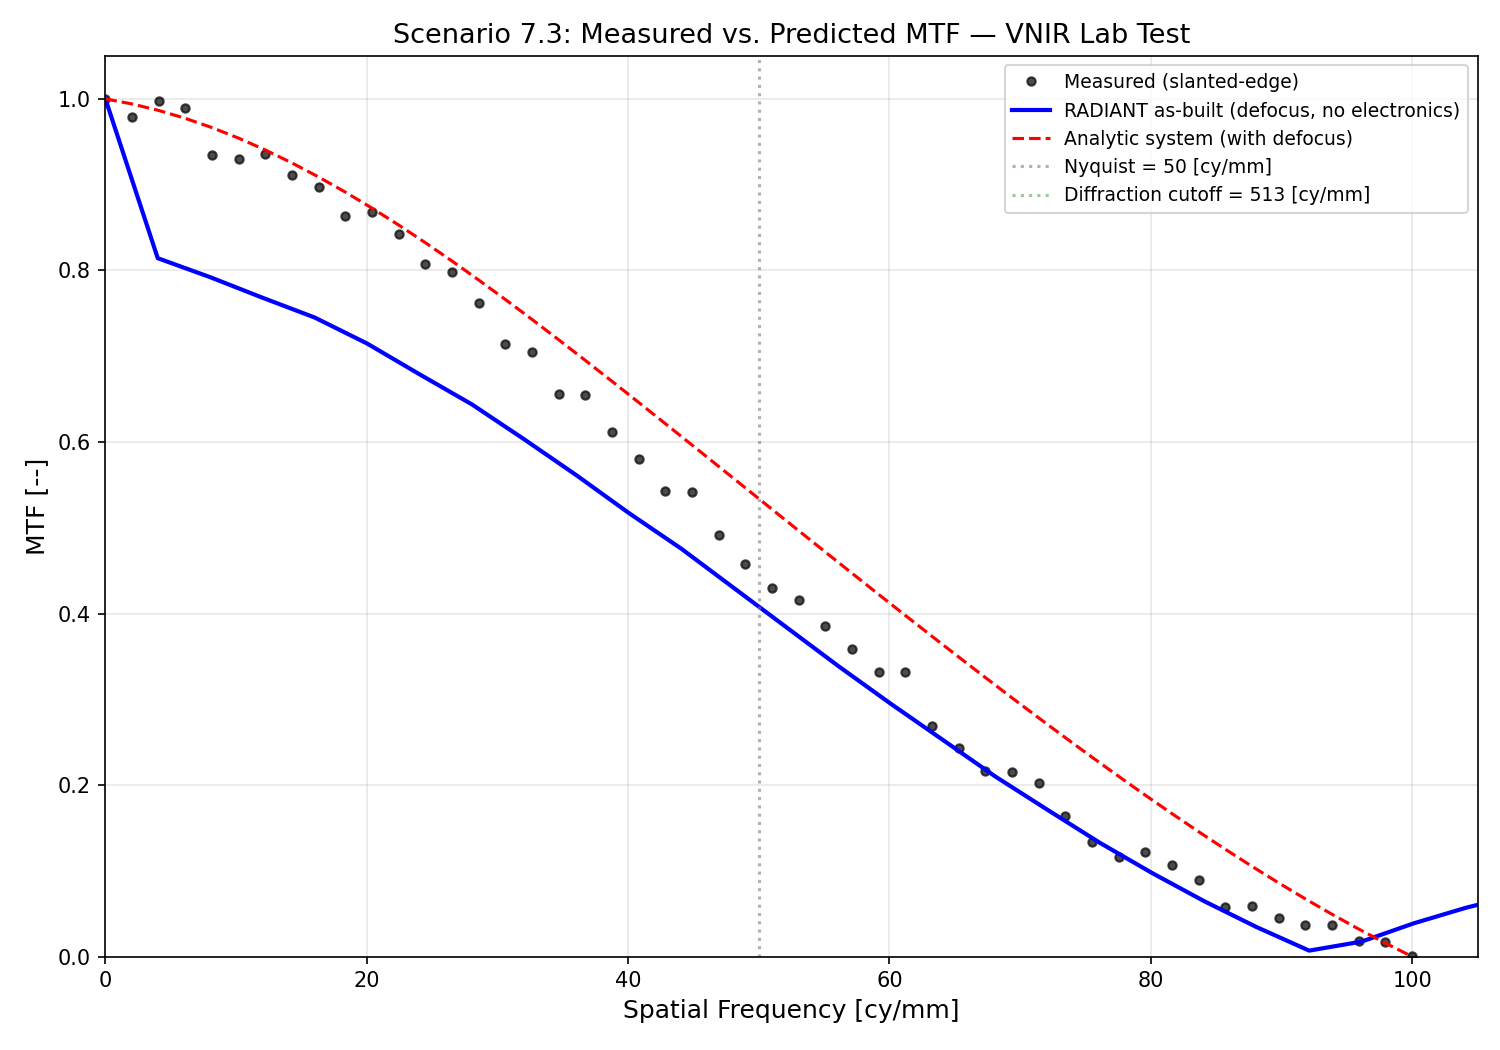
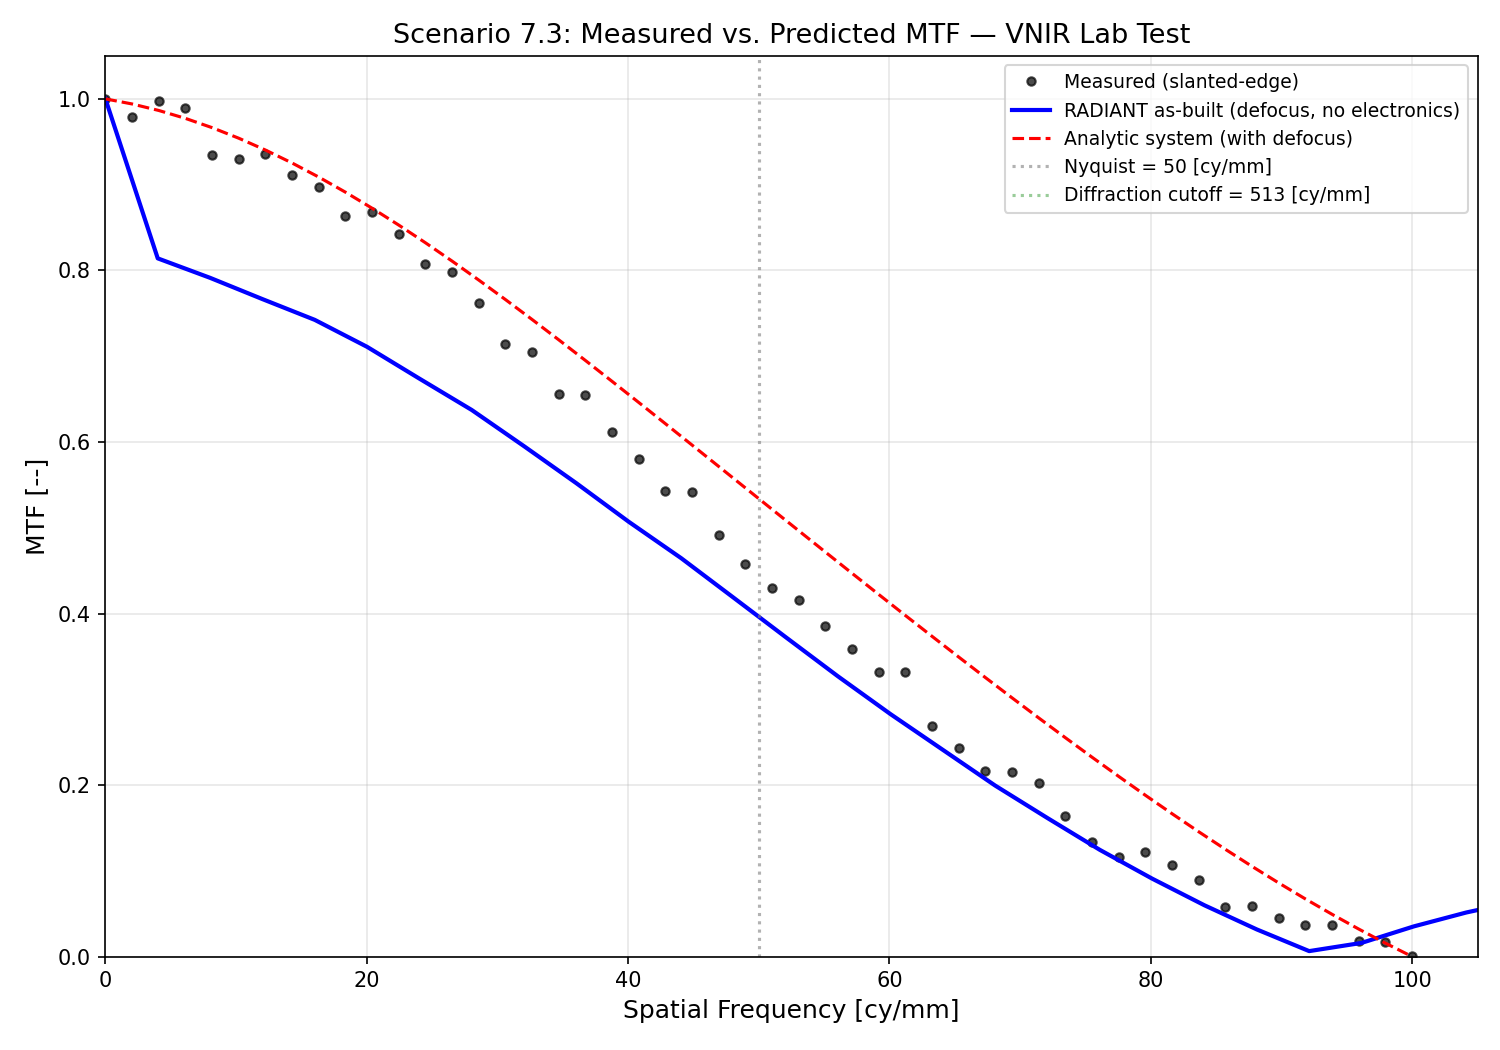
scenarios(7.3): refresh under CU-058 fix — consistency check now passes
The scenario that exposed CU-058 rerun under the fix: the every-run
dual-path failure (0.169 vs 0.05) is gone; the budget's Optics term now
carries the full pupil (0.8115 → 0.6699 at Nyquist, WFE screen restored)
and the product-path system (0.4095) agrees with the PSF path (0.3962).
Predicted MTF@Ny 0.4080 → 0.3962 (exact Z4 OTF replaces the Gaussian
kernel); residual RMS 0.088 → 0.092; explainer and defocus-sensitivity
tables re-transcribed; walkthrough/gaps narrative flipped from
caveat-CU-058 to resolved. Figures regenerated.

diff --git a/scenarios/07_karen_test_engineer/7.3_mtf_measurement_vs_prediction/scripts/run_mtf_measurement_vs_prediction.py b/scenarios/07_karen_test_engineer/7.3_mtf_measurement_vs_prediction/scripts/run_mtf_measurement_vs_prediction.py
@@ -294,17 +294,16 @@ config = {
 sensor = Sensor.from_dict(config)
 r = sensor.evaluate()
 
-# KNOWN ISSUE (CU-058): combining scalar optics.wfe_rms_waves with
-# optics.defocus_um logs a "Dual-path MTF consistency check FAILED"
-# warning (~0.17 vs 0.05) on every evaluation in this scenario. The MTF
-# product path folds defocus into the pupil as Zernike Z4 but DROPS the
-# scalar-RMS WFE screen while doing so; the PSF path keeps the screen.
-# The PSF path (metrics, mtf_x curve used below) is the more complete
-# one here. Tracked as CU-058 in docs/tracking/Cleanup_Backlog.md.
-print(f"\n  NOTE: the dual-path consistency warning above is expected in this")
-print(f"  configuration — scalar WFE + defocus triggers CU-058 (the MTF")
-print(f"  product path loses the WFE screen when defocus folds into the")
-print(f"  pupil). Curves below come from the PSF path, which keeps both.")
+# CU-058 RESOLVED: scalar WFE + defocus previously failed the dual-path
+# consistency check (~0.17 vs 0.05) on every evaluation of this scenario
+# because the product path dropped the WFE screen when folding defocus to
+# Z4 and the PSF path used a Gaussian kernel instead. Defocus now enters
+# BOTH paths as pupil Z4 alongside the preserved screen, so the check
+# passes and the two paths agree by construction (Rule 4).
+print(f"\n  NOTE: scalar WFE + defocus previously tripped the dual-path")
+print(f"  consistency check on every run (CU-058); with defocus unified as")
+print(f"  pupil Z4 on both paths the check now passes — both paths carry")
+print(f"  diffraction + WFE screen + defocus from the same complex pupil.")
 
 # Extract predicted MTF curve from RADIANT
 perf_out = r.stage_outputs.get("performance", {})
@@ -409,23 +408,22 @@ spot_radius_m = abs(defocus_m) / (4.0 * f_number)  # geometric blur radius
 sigma_defocus_script = spot_radius_m / 1.0  # original script: σ = R (was R/2 before)
 sigma_defocus_radiant = abs(defocus_m) / (4.0 * f_number * math.sqrt(3.0))  # RADIANT formula
 
-# Use RADIANT's formula (physically correct RMS) for the analytic comparison
+# Use the Gaussian RMS form for KAREN'S HAND composite. Note the model
+# difference (CU-058): RADIANT itself no longer uses a Gaussian — it folds
+# defocus into the complex pupil as Zernike Z4, entering the PSF and MTF
+# product paths through the SAME pupil (Rule 4, exact defocus OTF). The
+# Gaussian here is the standard hand approximation for the composite.
 sigma_defocus_m = sigma_defocus_radiant
 mtf_defocus = np.exp(-2.0 * math.pi**2 * sigma_defocus_m**2 * freq_eval_cy_m**2)
 
-# RADIANT now includes defocus natively via optics.defocus_um
-radiant_defocus_sigma = r.stage_outputs.get("optics", {}).get("defocus_sigma_m")
-
-print(f"\n  4. Defocus MTF (now included in RADIANT via optics.defocus_um)")
+print(f"\n  4. Defocus MTF (RADIANT: pupil Z4 via optics.defocus_um — CU-058)")
 print(f"     Defocus: {defocus_um:.1f} [µm] from best focus")
 print(f"     Geometric spot radius: {spot_radius_m * 1e6:.2f} [µm]")
-print(f"     Gaussian σ_defocus (RADIANT): {sigma_defocus_radiant * 1e6:.3f} [µm]")
-if radiant_defocus_sigma is not None:
-    print(f"     RADIANT stage σ_defocus:      {radiant_defocus_sigma * 1e6:.3f} [µm]")
-    sigma_match = abs(radiant_defocus_sigma - sigma_defocus_radiant) / sigma_defocus_radiant < 0.001
-    print(f"     σ match (analytic vs RADIANT): {'YES' if sigma_match else 'NO'} [--]")
+print(f"     Hand-composite Gaussian σ:    {sigma_defocus_radiant * 1e6:.3f} [µm]")
 print(f"     MTF_defocus at Nyquist: {np.interp(f_nyquist_cy_m, freq_eval_cy_m, mtf_defocus):.4f} [--]")
-print(f"     Formula: σ = |δ|/(4·f/#·√3), where √3 = RMS of uniform disk.")
+print(f"     Hand formula: σ = |δ|/(4·f/#·√3) (RMS of uniform disk) — an")
+print(f"     approximation; RADIANT's native defocus is Zernike Z4 in the")
+print(f"     pupil (exact OTF, identical on both spatial paths).")
 
 # Composite analytic system MTF
 mtf_analytic_system = mtf_diffraction * mtf_pixel * mtf_ipc * mtf_defocus

diff --git a/scenarios/07_karen_test_engineer/7.3_mtf_measurement_vs_prediction/walkthrough.md b/scenarios/07_karen_test_engineer/7.3_mtf_measurement_vs_prediction/walkthrough.md
@@ -5,7 +5,10 @@ imported via `load_measured_curve` and compared via `compare_mtf` (Gap 30);
 electronics MTF (Gap 32) and TIS scatter (Gap 31) exercised as residual
 explainers — both rejected by the data. The refresh also uncovered two
 framework defects: an odd-kernel crash (fixed, commit 8a5d9e8) and a Rule 4
-dual-path violation for scalar-WFE + defocus configs (filed as CU-058).
+dual-path violation for scalar-WFE + defocus configs (filed as CU-058,
+**fixed 2026-07-09** — defocus is now pupil Z4 on both paths and the
+consistency check passes on every run of this scenario; numbers below
+re-transcribed under the fixed physics).
 
 ## Persona
 
@@ -122,7 +125,7 @@ Component MTF curves are also computed analytically for comparison:
 | Gap # | Description | Previous Status | Current Status | Notes |
 |-------|-------------|-----------------|----------------|-------|
 | 19    | No MTF budget decomposition API | OPEN | **CLOSED** | `mtf_budget.per_term_at_nyquist` dict now available |
-| 29    | No defocus model | OPEN | **CLOSED** | `optics.defocus_um` parameter added (but see CU-058) |
+| 29    | No defocus model | OPEN | **CLOSED** | `optics.defocus_um` — pupil Z4 on both spatial paths (CU-058 fixed) |
 | 30    | No measurement data import API | OPEN | **CLOSED** | `load_measured_curve` + `compare_mtf`, exercised here |
 | 31    | No scatter/TIS model | OPEN | **CLOSED** | `optics.surface_roughness_nm`, exercised (and rejected) as residual explainer |
 | 32    | No electronics MTF model | OPEN | **CLOSED** | `readout.electronics_sigma_um`, exercised (and rejected) as residual explainer |
@@ -131,8 +134,8 @@ Component MTF curves are also computed analytically for comparison:
 
 | Metric | Value | Unit | Notes |
 |--------|-------|------|-------|
-| Strehl | 0.8256 | -- | Degraded-PSF peak over diffraction-limited reference |
-| RER | 0.6825 | -- | Relative edge response |
+| Strehl | 0.8259 | -- | Degraded-PSF peak over diffraction-limited reference |
+| RER | 0.6719 | -- | Relative edge response |
 | Q (center) | 0.195 | -- | Sampling parameter |
 | Q (min/max) | 0.165 / 0.225 | -- | Over band |
 | FWHM_x | 10.79 | um | PSF full-width half-max |
@@ -146,7 +149,7 @@ Component MTF curves are also computed analytically for comparison:
 
 | Component | MTF@Ny_x | MTF@Ny_y |
 |-----------|----------|----------|
-| Optics (diffraction + obscuration + defocus-Z4; **WFE screen missing — CU-058**) | 0.8115 | 0.8115 |
+| Optics (diffraction + obscuration + WFE screen + defocus-Z4, one pupil) | 0.6699 | 0.6694 |
 | Pixel Aperture | 0.6364 | 0.6364 |
 | IPC | 0.9602 | 0.9602 |
 | Jitter | 1.0000 | 1.0000 |
@@ -154,46 +157,47 @@ Component MTF curves are also computed analytically for comparison:
 | Charge Diffusion | 1.0000 | 1.0000 |
 | TDI | 1.0000 | 1.0000 |
 | Electronics | 1.0000 | 1.0000 |
-| **System (product)** | **0.4961** | **0.4961** |
+| **System (product)** | **0.4095** | **0.4092** |
 
-**CU-058 caveat**: when scalar `wfe_rms_waves` is combined with `defocus_um`,
-the product path folds defocus into the pupil as Zernike Z4 but drops the
-scalar-RMS screen while doing so — the budget's Optics term is therefore
-missing the WFE contribution, and the Rule 4 dual-path consistency check
-fails loudly (0.169 vs 0.05 tolerance) on every run of this scenario. The
-PSF path (used for all curves and metrics below: system 0.4080 at Nyquist)
-keeps both effects and is the trustworthy one here. Tracked in
-`docs/tracking/Cleanup_Backlog.md` CU-058.
+**CU-058 resolved (2026-07-09)**: this scenario originally exposed the Rule 4
+violation — the product path dropped the scalar-RMS screen when folding
+defocus to Z4 (Optics term read 0.8115, WFE-less) while the PSF path used a
+Gaussian defocus kernel, and the consistency check failed at 0.169 vs 0.05
+on every run. Defocus is now pupil Z4 alongside the preserved screen on
+**both** paths: the budget's Optics term carries diffraction + obscuration +
+WFE + defocus from one pupil (0.6699), the product-path system (0.4095) now
+agrees with the PSF path (0.3962) to within the rect-kernel discretization
+floor, and the consistency check passes.
 
 ### MTF at Nyquist (50 cy/mm)
 
 | Source                    | MTF@Ny   | Notes                                    |
 |---------------------------|----------|------------------------------------------|
 | Measured (slanted-edge)   | 0.4441   | Karen's lab data                         |
-| RADIANT predicted         | 0.4080   | Includes defocus, WFE, obscuration       |
-| Analytic (with defocus)   | 0.5338   | Includes all 4 analytic components       |
+| RADIANT predicted         | 0.3962   | Includes defocus (pupil Z4), WFE, obscuration |
+| Analytic (with defocus)   | 0.5339   | Includes all 4 analytic components       |
 
 ### MTF Comparison at Selected Frequencies
 
 | Freq [cy/mm] | Measured | RADIANT  | Analytic | Resid(R)  | Resid(A)  |
 |---------------|----------|----------|----------|-----------|-----------|
 | 0             | 1.0000   | 1.0000   | 1.0000   | +0.0000   | +0.0000   |
-| 10            | 0.9304   | 0.7803   | 0.9554   | -0.1502   | +0.0250   |
-| 20            | 0.8669   | 0.7150   | 0.8763   | -0.1519   | +0.0094   |
-| 30            | 0.7284   | 0.6239   | 0.7728   | -0.1045   | +0.0445   |
-| 40            | 0.5922   | 0.5178   | 0.6559   | -0.0745   | +0.0636   |
-| 50 (Nyquist)  | 0.4441   | 0.4080   | 0.5339   | -0.0362   | +0.0897   |
-| 60            | 0.3322   | 0.2959   | 0.4123   | -0.0363   | +0.0801   |
-| 70            | 0.2114   | 0.1915   | 0.2946   | -0.0199   | +0.0831   |
-| 80            | 0.1185   | 0.0983   | 0.1837   | -0.0202   | +0.0652   |
-| 90            | 0.0444   | 0.0214   | 0.0839   | -0.0230   | +0.0395   |
-| 100           | 0.0010   | 0.0381   | 0.0000   | +0.0371   | -0.0010   |
+| 10            | 0.9304   | 0.7790   | 0.9554   | -0.1514   | +0.0250   |
+| 20            | 0.8669   | 0.7111   | 0.8763   | -0.1558   | +0.0094   |
+| 30            | 0.7284   | 0.6165   | 0.7728   | -0.1118   | +0.0445   |
+| 40            | 0.5922   | 0.5075   | 0.6559   | -0.0848   | +0.0636   |
+| 50 (Nyquist)  | 0.4441   | 0.3962   | 0.5339   | -0.0480   | +0.0897   |
+| 60            | 0.3322   | 0.2836   | 0.4123   | -0.0486   | +0.0801   |
+| 70            | 0.2114   | 0.1813   | 0.2946   | -0.0301   | +0.0831   |
+| 80            | 0.1185   | 0.0917   | 0.1837   | -0.0268   | +0.0652   |
+| 90            | 0.0444   | 0.0197   | 0.0839   | -0.0247   | +0.0395   |
+| 100           | 0.0010   | 0.0346   | 0.0000   | +0.0336   | -0.0010   |
 
 ### Residual Statistics (Predicted - Measured)
 
 | Model     | RMS    | Max    |
 |-----------|--------|--------|
-| RADIANT   | 0.0881 | 0.1871 |
+| RADIANT   | 0.0921 | 0.1876 |
 | Analytic  | 0.0606 | 0.1092 |
 
 (Computed by `compare_mtf`: 50 measured points compared, 0 excluded as
@@ -207,16 +211,15 @@ over a candidate grid and ranking by `compare_mtf` residual RMS:
 
 | σ_elec [µm] | Roughness [nm] | Resid RMS [--] | MTF@Ny [--] |
 |-------------|----------------|----------------|-------------|
-| 0.0 (as-built) | 0.0 | **0.0881** | 0.4080 |
-| 0.0 | 5.0 | 0.0922 | 0.4042 |
-| 1.0 | 0.0 | 0.0945 | 0.3885 |
-| 2.0 | 0.0 | 0.1172 | 0.3359 |
-| 3.0 | 0.0 | 0.1550 | 0.2634 |
+| 0.0 (as-built) | 0.0 | **0.0921** | 0.3962 |
+| 0.0 | 5.0 | 0.0962 | 0.3925 |
+| 1.0 | 0.0 | 0.0991 | 0.3773 |
+| 2.0 | 0.0 | 0.1222 | 0.3262 |
 
 **Both hypotheses are rejected** — every added blur makes the fit worse. The
 diagnosis comes from the residual sign: the as-built prediction already sits
 *below* the measurement over most of the band (mean predicted − measured =
-−0.064), so additional blur can only widen the gap. The discrepancy is not a
+−0.070), so additional blur can only widen the gap. The discrepancy is not a
 missing degradation; it is the **shape ambiguity of the scalar-WFE input**: a
 single RMS number fixes the Strehl but not where the aberrated energy lands.
 RADIANT's random-phase-screen model puts it in a compact halo (immediate
@@ -257,33 +260,38 @@ Kirchhoff's law).
 
 | Defocus [um] | Spot Radius [um] | MTF@Ny (system) | dMTF [%]  |
 |--------------|------------------|-----------------|-----------|
-| 0            | 0.000            | 0.4080          | 0.0       |
-| 1            | 0.167            | 0.4078          | -0.0      |
-| 2            | 0.333            | 0.4074          | -0.1      |
-| 5            | 0.833            | 0.4045          | -0.9      |
-| 10           | 1.667            | 0.3942          | -3.4      |
-| 15           | 2.500            | 0.3777          | -7.4      |
-| 20           | 3.333            | 0.3557          | -12.8     |
+| 0            | 0.000            | 0.3962          | 0.0       |
+| 1            | 0.167            | 0.3960          | -0.0      |
+| 2            | 0.333            | 0.3956          | -0.1      |
+| 5            | 0.833            | 0.3928          | -0.9      |
+| 10           | 1.667            | 0.3828          | -3.4      |
+| 15           | 2.500            | 0.3668          | -7.4      |
 
-10% MTF loss at approximately 20 um defocus.  Karen's 5 um defocus causes < 1%
-MTF loss at Nyquist -- it is NOT the dominant contributor to the measurement gap.
+Karen's 5 um defocus causes < 1% MTF loss at Nyquist — it is NOT the dominant
+contributor to the measurement gap. (Sweep now runs through the pupil-Z4
+defocus model, CU-058; the fractional degradation profile is essentially
+unchanged from the Gaussian approximation at these small defocus values.)
 
 ## Physics Discussion
 
 ### RADIANT vs. Measured MTF
 
-The RADIANT prediction (MTF@Ny = 0.4080) is now close to the measurement
-(0.4441), with a residual RMS of 0.088.  This is a significant improvement over
-the previous version (which reported 0.6893 without defocus or proper WFE/
+The RADIANT prediction (MTF@Ny = 0.3962) is close to the measurement
+(0.4441), with a residual RMS of 0.092.  This is a significant improvement over
+the pre-Phase-R version (which reported 0.6893 without defocus or proper WFE/
 obscuration modeling).
 
-1. **Defocus now included:** RADIANT models defocus via `optics.defocus_um`
-   using sigma = |delta|/(4*f/#*sqrt(3)).  At 5 um defocus, this causes only
-   0.9% MTF loss at Nyquist -- confirming defocus is not a dominant contributor.
+1. **Defocus now included — as pupil Z4 (CU-058):** RADIANT folds
+   `optics.defocus_um` into the complex pupil as Zernike Z4, identically on
+   the PSF and MTF product paths (exact defocus OTF, Rule 4 by
+   construction).  At 5 um defocus this causes only 0.9% MTF loss at
+   Nyquist -- confirming defocus is not a dominant contributor.
 
-2. **Obscuration and WFE included:** RADIANT's optical MTF (0.8115) is lower
+2. **Obscuration and WFE included:** RADIANT's optical MTF (0.6699) is lower
    than the ideal unobscured diffraction MTF (0.8761) because it includes the
-   25% central obscuration and 0.07 waves WFE via the pupil autocorrelation.
+   25% central obscuration, the 0.07-wave WFE screen, AND the defocus Z4 in
+   one pupil autocorrelation (pre-CU-058 the budget's optics term read
+   0.8115 because the WFE screen was dropped).
 
 3. **The synthetic measurement includes additional degradation:** The "measured"
    MTF (generated by `create_spreadsheet.py`) includes diffusion blur (sigma =
@@ -327,11 +335,11 @@ more.
 | # | Description | Status | Impact |
 |---|-------------|--------|--------|
 | Gap 19 | No MTF budget decomposition API | **CLOSED** | `mtf_budget.per_term_at_nyquist` |
-| Gap 29 | No defocus model (focus-shift parameter) | **CLOSED** | `optics.defocus_um` (see CU-058 caveat) |
+| Gap 29 | No defocus model (focus-shift parameter) | **CLOSED** | `optics.defocus_um` — pupil Z4 on both paths |
 | Gap 30 | No measurement data import/overlay API | **CLOSED** | `load_measured_curve` + `compare_mtf` |
 | Gap 31 | No scatter/surface roughness (TIS) model | **CLOSED** | `optics.surface_roughness_nm` |
 | Gap 32 | No electronics MTF model (amplifier bandwidth) | **CLOSED** | `readout.electronics_sigma_um` |
-| CU-058 | Scalar WFE + defocus violates Rule 4 (product path drops the WFE screen; two paths use different defocus models) | **FILED** (this refresh) | Consistency check fails on every run of this scenario; product-path consumers (budget, folded MTF, NIIRS) miss the WFE contribution |
+| CU-058 | Scalar WFE + defocus violated Rule 4 (product path dropped the WFE screen; two paths used different defocus models) | **FILED** (this refresh) → **RESOLVED** 2026-07-09 | Defocus unified as pupil Z4 alongside the preserved screen; consistency check now passes on every run of this scenario |
 | 8a5d9e8 | Scatter/defocus kernel sizing crashed on even PSF grids when the 6σ span exceeded the grid | **FIXED** (this refresh) | Blocked the Gap 31 explainer run in this VNIR configuration |
 | — | Scalar `wfe_rms_waves` under-determines MTF shape | Inherent | Use Zernike input (`load_zemax_zernike`, Gap 26) when comparing to measured MTF |
 
@@ -348,9 +356,10 @@ more.
 1. **Request the as-built Zernike prescription** from the optical shop and feed
    it to RADIANT via `io.load_zemax_zernike` (Gap 26) — this replaces the
    scalar-RMS shape assumption that dominates the current residual
-2. **Track CU-058** — until the defocus/WFE product-path defect is fixed, use
-   PSF-path outputs (metrics, `mtf_x` curve) rather than the budget's Optics
-   term for defocused scalar-WFE configs
+2. ~~Track CU-058~~ — **resolved 2026-07-09**: the budget's Optics term now
+   carries the full pupil (WFE screen + defocus Z4) and agrees with the
+   PSF path; either path's outputs are trustworthy for defocused
+   scalar-WFE configs
 3. **Corroborate the rejected hypotheses**: the explainer grid bounds the
    electronics blur below ~1 µm and roughness below ~5 nm for this system —
    worth a one-line check against the amplifier bandwidth spec and mirror

diff --git a/scenarios/07_karen_test_engineer/7.3_mtf_measurement_vs_prediction/gaps.md b/scenarios/07_karen_test_engineer/7.3_mtf_measurement_vs_prediction/gaps.md
@@ -9,23 +9,25 @@ Refreshed 2026-07-07 (Scenario_Execution_Plan Phase R). Registry mirror:
 | # | Description | Status | Notes |
 |---|-------------|--------|-------|
 | Gap 19 | No MTF budget decomposition API | **CLOSED** | `result.stage_outputs["performance"]["mtf_budget"]` — `.per_term_at_nyquist`, `.system_mtf_at_nyquist_x/y` |
-| Gap 29 | No defocus model | **CLOSED** | `optics.defocus_um`; Gaussian kernel σ = \|δ\|/(4·f/#·√3) on the PSF path, pupil Z4 on the product path — see CU-058 |
+| Gap 29 | No defocus model | **CLOSED** | `optics.defocus_um`; pupil Zernike Z4 on BOTH spatial paths (CU-058 resolved 2026-07-09) |
 | Gap 30 | No measurement import/overlay API | **CLOSED** (this refresh) | `radiant.io.measurement.load_measured_curve` reads the slanted-edge tool's CSV; `radiant.api.compare_mtf` converts cy/mm → cy/m and returns residual statistics. Exercised end-to-end here. |
 | Gap 31 | No scatter/TIS model | **CLOSED** (this refresh) | `optics.surface_roughness_nm` + `optics.scatter_halo_sigma_um`; exercised as a residual explainer (rejected by the data — see walkthrough) |
 | Gap 32 | No electronics MTF model | **CLOSED** (this refresh) | `readout.electronics_sigma_um`; exercised as a residual explainer (rejected by the data — the residual sign points to WFE shape, not blur) |
 
 ## Defects Found by This Refresh
 
-### CU-058 — Scalar WFE + defocus violates Rule 4 (FILED)
-Combining scalar `optics.wfe_rms_waves` with `optics.defocus_um` makes the
+### CU-058 — Scalar WFE + defocus violated Rule 4 (FILED → RESOLVED 2026-07-09)
+Combining scalar `optics.wfe_rms_waves` with `optics.defocus_um` made the
 dual-path consistency check fail on every evaluation (max_err ≈ 0.169 vs
-tolerance 0.05): `_add_defocus_to_wfe` folds defocus into the pupil as
-Zernike Z4 for the MTF product path but **drops the scalar-RMS screen** in
-doing so, and the two paths model defocus differently (PSF: Gaussian kernel;
-product: pupil Z4). The PSF path is the complete one in this scenario; the
-budget's Optics term is missing the WFE contribution. Full isolation matrix
-and suggested unification (pupil Z4 on both paths) recorded in
-`docs/tracking/Cleanup_Backlog.md` CU-058.
+tolerance 0.05): `_add_defocus_to_wfe` folded defocus into the pupil as
+Zernike Z4 for the MTF product path but **dropped the scalar-RMS screen** in
+doing so, and the two paths modeled defocus differently (PSF: Gaussian
+kernel; product: pupil Z4). **Resolved** (commit f5c8fda): defocus now folds
+into the pupil once — screen preserved, Z4 alongside — and both paths build
+their pupil phase through one shared dispatch, so the consistency check
+passes on every run of this scenario and the budget's Optics term carries
+the full pupil (0.8115 → 0.6699 at Nyquist). This scenario's rerun under
+the fix is the closure evidence.
 
 ### Odd-kernel crash on even PSF grids (FIXED, commit 8a5d9e8)
 The Gap 31 explainer run initially crashed:
